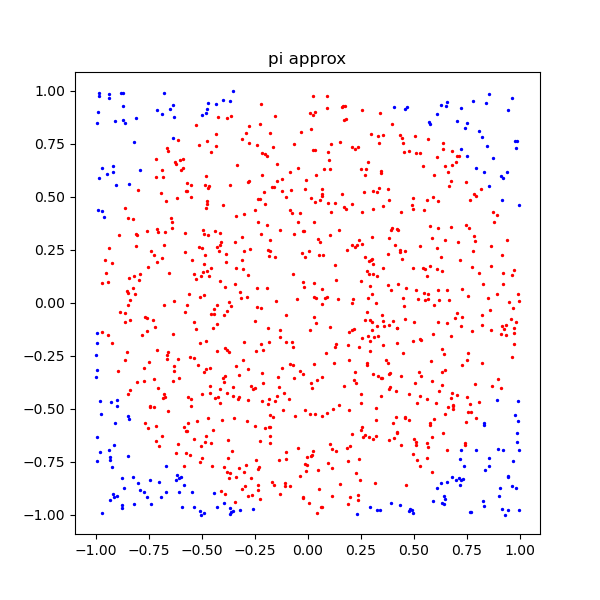
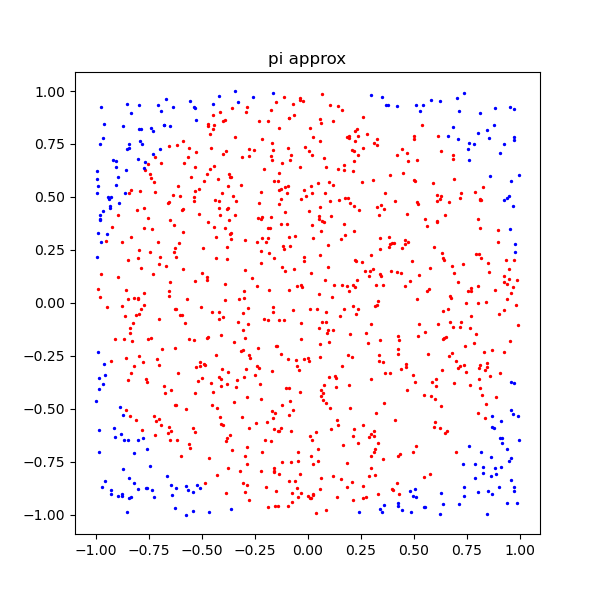
Uppdaterat MA3.py

diff --git a/MA3.py b/MA3.py
@@ -13,7 +13,6 @@ import concurrent.futures as future
 from statistics import mean 
 from time import perf_counter as pc
 from numba import njit, prange
-import numpy as np
 
 # Exc1
 def approximate_pi(n):
@@ -110,7 +109,7 @@ def sphere_volume_numba_parallel(n: int, d: int) -> float:
     return (inne / n) * (2**d)
     
 def main():
-    """# Exc1
+    # Exc1
     dots = [1000, 10000, 100000]
     for n in dots:
         approximate_pi(n)
@@ -145,7 +144,7 @@ def main():
 
     print(f"Exc3: Sequential time of {d} and {n}: {stop-start}")
     print(f'Sequential time (s): {[round(t, 3) for t in tider]}')
-    print(f'Sequential time (s): {[round(t, 3) for t in tider_n]}')"""
+    print(f'Sequential time numba (s): {[round(t, 3) for t in tider_n]}')
 
 
 
@@ -153,7 +152,7 @@ def main():
     n = 1000000
     d = 11
     start = pc()
-    sphere_volume_numba_parallel(n, d)
+    sphere_volume(n, d)
     stop = pc()
     tid_seq = stop-start
     print(f"Exc4: Sequential time of {d} and {n}: {tid_seq: .4f} s")
